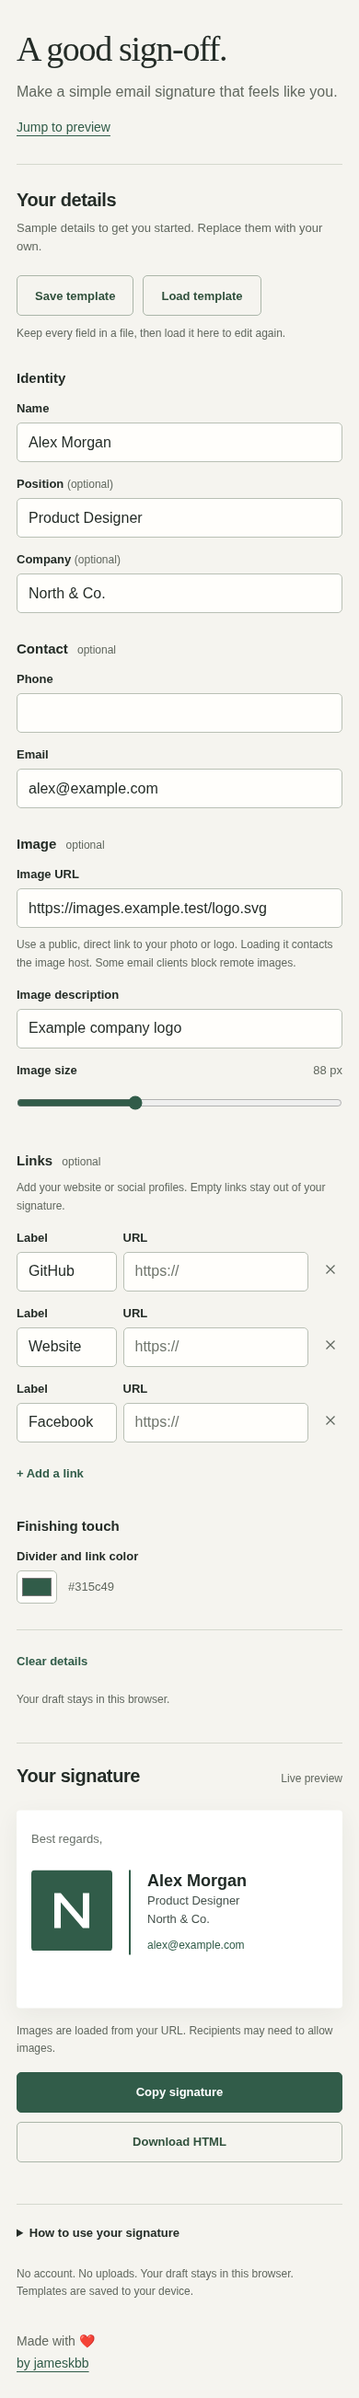
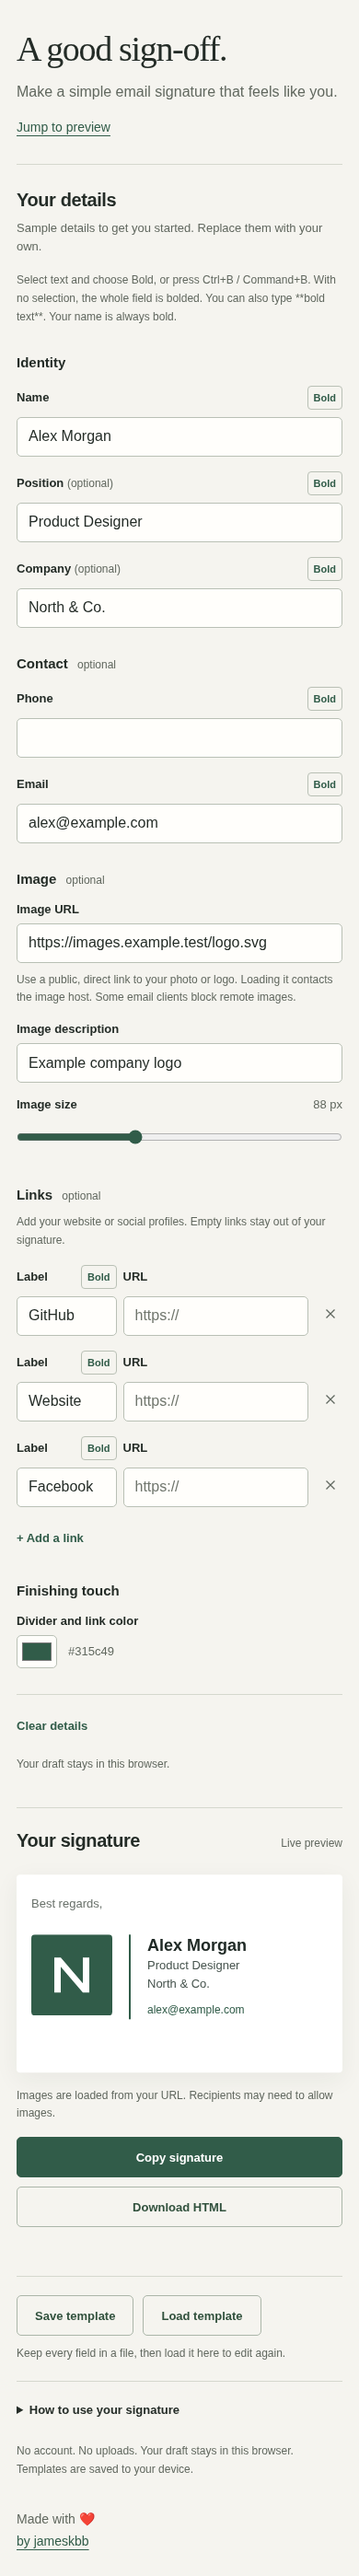
Add selected-text bold formatting and company template names
Preserve bold markup through templates and HTML export, keep link destinations plain, and group template controls beneath the preview exports.

diff --git a/signature.js b/signature.js
@@ -13,6 +13,21 @@
     });
   }
 
+  function unformat(value) {
+    return typeof value === 'string' ? value.replace(/\*\*([\s\S]+?)\*\*/g, '$1') : '';
+  }
+
+  function format(value) {
+    var input = typeof value === 'string' ? value : '';
+    var result = '', start = 0;
+    input.replace(/\*\*([\s\S]+?)\*\*/g, function (match, bold, offset) {
+      result += escape(input.slice(start, offset)) + '<strong style="font-weight:700;">' + escape(bold) + '</strong>';
+      start = offset + match.length;
+      return match;
+    });
+    return result + escape(input.slice(start));
+  }
+
   function normalizeUrl(value) {
     var input = text(value);
     if (!input || /[\u0000-\u0020\u007f\\]/.test(input)) return '';
@@ -53,7 +68,7 @@
       position: text(data.position),
       company: text(data.company),
       phone: text(data.phone),
-      email: validEmail(email) ? email : '',
+      email: validEmail(unformat(email)) ? email : '',
       imageUrl: normalizeUrl(data.imageUrl),
       imageAlt: text(data.imageAlt),
       imageSize: Number.isFinite(size) && size > 0 ? Math.round(Math.min(160, Math.max(48, size))) : 88,
@@ -65,21 +80,21 @@
   }
 
   function anchor(label, href, accent) {
-    return '<a href="' + escape(href) + '" style="color:' + accent + ';text-decoration:none;">' + escape(label) + '</a>';
+    return '<a href="' + escape(href) + '" style="color:' + accent + ';text-decoration:none;">' + format(label) + '</a>';
   }
 
   function render(data) {
     var signature = clean(data);
     var lines = [];
-    if (signature.name) lines.push('<div style="font-size:18px;line-height:24px;font-weight:700;color:#202a26;">' + escape(signature.name) + '</div>');
-    if (signature.position) lines.push('<div style="font-size:13px;line-height:20px;">' + escape(signature.position) + '</div>');
-    if (signature.company) lines.push('<div style="font-size:13px;line-height:20px;">' + escape(signature.company) + '</div>');
+    if (signature.name) lines.push('<div style="font-size:18px;line-height:24px;font-weight:700;color:#202a26;">' + format(signature.name) + '</div>');
+    if (signature.position) lines.push('<div style="font-size:13px;line-height:20px;">' + format(signature.position) + '</div>');
+    if (signature.company) lines.push('<div style="font-size:13px;line-height:20px;">' + format(signature.company) + '</div>');
     var contacts = [];
     if (signature.phone) {
-      var number = signature.phone.replace(/[\s().-]/g, '');
-      contacts.push(/^\+?\d+$/.test(number) ? anchor(signature.phone, 'tel:' + number, signature.accent) : escape(signature.phone));
+      var number = unformat(signature.phone).replace(/[\s().-]/g, '');
+      contacts.push(/^\+?\d+$/.test(number) ? anchor(signature.phone, 'tel:' + number, signature.accent) : format(signature.phone));
     }
-    if (signature.email) contacts.push(anchor(signature.email, 'mailto:' + encodeURIComponent(signature.email).replace('%40', '@'), signature.accent));
+    if (signature.email) contacts.push(anchor(signature.email, 'mailto:' + encodeURIComponent(unformat(signature.email)).replace('%40', '@'), signature.accent));
     signature.links.forEach(function (link) { contacts.push(anchor(link.label, link.url, signature.accent)); });
     if (contacts.length) lines.push('<div style="padding-top:' + (lines.length ? '8' : '0') + 'px;font-size:12px;line-height:20px;">' + contacts.join('<br>') + '</div>');
     if (!lines.length && !signature.imageUrl) return '';
@@ -89,10 +104,10 @@
 
   function plainText(data) {
     var signature = clean(data);
-    return [signature.name, signature.position, signature.company, signature.phone, signature.email].filter(Boolean).concat(signature.links.map(function (link) {
-      return link.label + ': ' + link.url;
+    return [signature.name, signature.position, signature.company, signature.phone, signature.email].filter(Boolean).map(unformat).concat(signature.links.map(function (link) {
+      return unformat(link.label) + ': ' + link.url;
     })).join('\n');
   }
 
-  globalThis.Signature = Object.freeze({ normalizeUrl: normalizeUrl, validEmail: validEmail, render: render, plainText: plainText });
+  globalThis.Signature = Object.freeze({ normalizeUrl: normalizeUrl, validEmail: validEmail, format: format, unformat: unformat, render: render, plainText: plainText });
 }());

diff --git a/app.js b/app.js
@@ -100,7 +100,7 @@
 
   function validate() {
     valid = true;
-    var email = state.email.trim();
+    var email = Signature.unformat(state.email).trim();
     setError($('email'), $('email-error'), email && !Signature.validEmail(email) ? 'Enter an email address such as alex@example.com, or leave this blank.' : '');
     setError($('imageUrl'), $('image-error'), state.imageUrl.trim() && !Signature.normalizeUrl(state.imageUrl) ? 'Enter a public http:// or https:// image URL, or leave this blank.' : '');
     Array.prototype.forEach.call($('links').children, function (row, index) {
@@ -160,6 +160,57 @@
     save();
   }
 
+  function addBoldControl(input, fieldName) {
+    var label = document.querySelector('label[for="' + input.id + '"]');
+    var heading = document.createElement('div');
+    heading.className = 'format-label';
+    label.before(heading);
+    heading.appendChild(label);
+    var button = document.createElement('button');
+    button.type = 'button';
+    button.className = 'bold-button';
+    button.textContent = 'Bold';
+    button.setAttribute('aria-label', 'Toggle bold for ' + fieldName);
+    button.setAttribute('aria-controls', input.id);
+    button.title = 'Bold selected text or the whole field (Ctrl+B or Command+B)';
+    heading.appendChild(button);
+    input.setAttribute('aria-describedby', ((input.getAttribute('aria-describedby') || '') + ' formatting-help').trim());
+    function toggleBold() {
+      var value = input.value;
+      var start = input.selectionStart;
+      var end = input.selectionEnd;
+      if (start === end) { start = 0; end = value.length; }
+      if (!value) {
+        $('formatting-status').textContent = 'Enter text in ' + fieldName + ' before making it bold.';
+        input.focus();
+        return;
+      }
+      var selection = value.slice(start, end);
+      var replacement;
+      if (start >= 2 && value.slice(start - 2, start) === '**' && value.slice(end, end + 2) === '**') {
+        start -= 2; end += 2;
+        replacement = selection;
+      } else if (selection.startsWith('**') && selection.endsWith('**') && selection.length > 4) {
+        replacement = selection.slice(2, -2);
+      } else {
+        replacement = '**' + selection + '**';
+      }
+      input.value = value.slice(0, start) + replacement + value.slice(end);
+      input.dispatchEvent(new Event('input', { bubbles: true }));
+      render();
+      input.focus();
+      input.setSelectionRange(start, start + replacement.length);
+      $('formatting-status').textContent = 'Formatting updated for ' + fieldName + '.';
+    }
+    button.addEventListener('mousedown', function (event) { event.preventDefault(); });
+    button.addEventListener('click', toggleBold);
+    input.addEventListener('keydown', function (event) {
+      if ((event.ctrlKey || event.metaKey) && !event.altKey && event.key.toLowerCase() === 'b') {
+        event.preventDefault(); toggleBold();
+      }
+    });
+  }
+
   function createLinkRow(link) {
     var id = ++linkCounter;
     var row = document.createElement('div');
@@ -183,6 +234,7 @@
       changed(); render();
     });
     $('links').appendChild(row);
+    addBoldControl(label, 'link label');
     return row;
   }
 
@@ -192,6 +244,8 @@
     state.links.forEach(createLinkRow);
     render();
   }
+
+  ['name', 'position', 'company', 'phone', 'email'].forEach(function (key) { addBoldControl($(key), key); });
 
   fields.forEach(function (key) {
     $(key).addEventListener('input', function () {

diff --git a/index.html b/index.html
@@ -19,7 +19,8 @@
   <main class="workspace">
     <form id="editor" novalidate>
       <div class="editor-intro"><h2>Your details</h2><p id="sample-note">Sample details to get you started. Replace them with your own.</p></div>
-      <div class="template-actions"><button type="button" id="save-template" class="secondary-button">Save template</button><button type="button" id="load-template" class="secondary-button">Load template</button><input type="file" id="template-file" accept=".json,application/json" hidden><p class="field-help">Keep every field in a file, then load it here to edit again.</p><p id="template-status" role="status" aria-live="polite" hidden></p></div>
+      <p class="field-help" id="formatting-help">Select text and choose Bold, or press Ctrl+B / Command+B. With no selection, the whole field is bolded. You can also type **bold text**. Your name is always bold.</p>
+      <p id="formatting-status" class="visually-hidden" role="status" aria-live="polite"></p>
       <fieldset><legend>Identity</legend>
         <label for="name">Name</label><input id="name" name="name" autocomplete="name" maxlength="160">
         <div class="field-pair"><div><label for="position">Position <span>(optional)</span></label><input id="position" name="position" autocomplete="organization-title" maxlength="160"></div><div><label for="company">Company <span>(optional)</span></label><input id="company" name="company" autocomplete="organization" maxlength="160"></div></div>
@@ -44,6 +45,7 @@
       <div class="export-actions"><button type="button" id="copy" class="primary-button">Copy signature</button><button type="button" id="download" class="secondary-button">Download HTML</button></div>
       <p id="action-status" class="action-status" role="status" aria-live="polite"></p>
       <div id="manual-copy" class="manual-copy" hidden><p>Automatic copying is unavailable. Select the signature below, then press Ctrl+C (Windows) or Command+C (Mac).</p><button type="button" id="select-signature" class="secondary-button">Select signature</button></div>
+      <div class="template-actions"><button type="button" id="save-template" class="secondary-button">Save template</button><button type="button" id="load-template" class="secondary-button">Load template</button><input type="file" id="template-file" accept=".json,application/json" hidden><p class="field-help">Keep every field in a file, then load it here to edit again.</p><p id="template-status" role="status" aria-live="polite" hidden></p></div>
       <details class="paste-help"><summary>How to use your signature</summary><ol><li>Copy your signature.</li><li>Open your email app's settings and find its signature editor.</li><li>Paste, save, and send yourself a test email.</li></ol><p>Email apps may adjust spacing, fonts, or images. The HTML download is useful for apps that accept an HTML file.</p></details>
       <p class="privacy-note">No account. No uploads. Your draft stays in this browser. Templates are saved to your device.</p>
     </aside>

diff --git a/tests/signature.test.js b/tests/signature.test.js
@@ -75,3 +75,21 @@ test('encodes valid mailbox punctuation so it cannot become mailto parameters', 
   assert.ok(html.includes('href="mailto:ada%3Fsubject%3Dhello@example.com"'));
   assert.ok(!html.includes('href="mailto:ada?'));
 });
+
+test('renders selected bold text safely and keeps markup out of link destinations and plain text', () => {
+  const data = {
+    name: '**Alex** Morgan', position: 'Lead **Designer**', company: '**EXAMPLE** | Digital Solutions',
+    phone: '**+1** 555-0100', email: '**alex**@example.com',
+    links: [{ label: 'My **Website**', url: 'https://example.com/**literal**' }]
+  };
+  const html = render(data);
+  assert.match(html, /<strong style="font-weight:700;">EXAMPLE<\/strong> \| Digital Solutions/);
+  assert.match(html, /href="mailto:alex@example.com"/);
+  assert.match(html, /href="tel:\+15550100"/);
+  assert.match(html, /href="https:\/\/example.com\/\*\*literal\*\*"/);
+  assert.match(html, /My <strong style="font-weight:700;">Website<\/strong>/);
+  assert.equal(plainText(data), 'Alex Morgan\nLead Designer\nEXAMPLE | Digital Solutions\n+1 555-0100\nalex@example.com\nMy Website: https://example.com/**literal**');
+  assert.equal(globalThis.Signature.format('**<img src=x onerror=alert(1)>**'), '<strong style="font-weight:700;">&lt;img src=x onerror=alert(1)&gt;</strong>');
+  assert.equal(globalThis.Signature.format('unmatched **text'), 'unmatched **text');
+  assert.equal(globalThis.Signature.unformat('A **bold** B **also**'), 'A bold B also');
+});

diff --git a/template.js b/template.js
@@ -40,11 +40,16 @@
   }
   function filename(signature) {
     var email = signature && typeof signature.email === 'string' ? signature.email : '';
-    var handle = email.trim().split('@')[0].toLowerCase().normalize('NFKD')
+    var company = signature && typeof signature.company === 'string' ? signature.company : '';
+    var handle = email.replace(/\*\*([\s\S]+?)\*\*/g, '$1').trim().split('@')[0].toLowerCase().normalize('NFKD')
       .replace(/[\u0300-\u036f]/g, '').replace(/[^a-z0-9._+-]/g, '-')
       .replace(/-+/g, '-').replace(/^[._+-]+|[._+-]+$/g, '').slice(0, 100)
       .replace(/[._+-]+$/g, '');
     if (!handle) handle = 'email-signature-template';
+    var companySlug = company.replace(/\*\*([\s\S]+?)\*\*/g, '$1').toLowerCase().normalize('NFKD')
+      .replace(/[\u0300-\u036f]/g, '').replace(/[^a-z0-9]+/g, '-')
+      .replace(/^-+|-+$/g, '').slice(0, 80).replace(/-+$/g, '');
+    if (companySlug) handle += '-' + companySlug;
     // Windows reserves these names even when a file extension is present.
     if (/^(con|prn|aux|nul|com[0-9]|lpt[0-9])(?:\.|$)/i.test(handle)) handle = 'template-' + handle;
     return handle + '.json';

diff --git a/styles.css b/styles.css
@@ -572,7 +572,9 @@ footer {
   display:flex;
   flex-wrap:wrap;
   gap:10px;
-  margin-top:20px;
+  margin:20px 0;
+  padding-top:20px;
+  border-top:1px solid var(--line);
 }
 
 .template-actions p {
@@ -588,4 +590,59 @@ footer {
 
 #template-status.warning {
   color:var(--error);
+}
+
+#formatting-help {
+  margin-top:16px;
+}
+
+.format-label {
+  display:flex;
+  align-items:center;
+  justify-content:space-between;
+  gap:8px;
+  margin-bottom:8px;
+  min-height:26px;
+}
+
+.format-label label {
+  margin-bottom:0;
+}
+
+.bold-button {
+  flex-shrink:0;
+  border:1px solid #b9c0b5;
+  border-radius:4px;
+  background:transparent;
+  color:var(--green);
+  min-height:26px;
+  padding:3px 6px;
+  font-size:11px;
+  font-weight:700;
+}
+
+.bold-button:hover {
+  background:#e8ece3;
+}
+
+.link-row > div > label {
+  min-height:26px;
+  display:flex;
+  align-items:center;
+}
+
+.link-row .remove-link {
+  margin-top:34px;
+}
+
+.visually-hidden {
+  position:absolute;
+  width:1px;
+  height:1px;
+  padding:0;
+  margin:-1px;
+  overflow:hidden;
+  clip-path:inset(50%);
+  white-space:nowrap;
+  border:0;
 }

diff --git a/tests/template.test.js b/tests/template.test.js
@@ -17,7 +17,7 @@ test('template filenames use a safe email handle without changing saved values',
     ['CON@example.com', 'template-con.json']
   ];
   for (const [email, expected] of examples) {
-    const data = { ...signature, email };
+    const data = { ...signature, email, company: '' };
     assert.equal(Template.filename(data), expected);
     assert.equal(Template.parse(Template.serialize(data)).email, email);
   }
@@ -45,4 +45,11 @@ test('omits view-only state and returns independent editable values', () => {
   assert.deepEqual(parsed, signature);
   parsed.links[0].label = 'changed';
   assert.equal(signature.links[0].label, ' Second ');
+});
+
+test('template filenames include the company without bold markers or unsafe separators', () => {
+  const data = { ...signature, email: '**alex**@example.com', company: '**EXAMPLE** | Digital Solutions' };
+  assert.equal(Template.filename(data), 'alex-example-digital-solutions.json');
+  assert.deepEqual(Template.parse(Template.serialize(data)), data);
+  assert.equal(Template.filename({ email: 'alex@example.com', company: ' /:*? ' }), 'alex.json');
 });

diff --git a/README.md b/README.md
@@ -24,9 +24,15 @@ python3 -m http.server 8000 --bind 127.0.0.1
 
 Open http://localhost:8000. Replace the example details, paste a public direct image URL, and add any links you want. Blank optional fields disappear. Use **Copy signature**, then paste into your email client's signature editor. You can also download the HTML.
 
+## Bold text
+
+Select any part of your name, position, company, phone, email, or link label, then choose its **Bold** button or press **Ctrl+B** (Windows) or **Command+B** (Mac). With no selection, the whole field is bolded. Repeat to remove bold. For example, `**North** | Digital Solutions` makes only North bold. Your name already appears bold by default.
+
+You can also type paired `**` markers directly. The preview and HTML render the bold text; email and phone link destinations and plain-text clipboard content omit the markers. URLs and image descriptions remain literal. Templates retain the markers exactly so formatting survives saving and loading.
+
 ## Save and load templates
 
-Use **Save template** to download a JSON file named after your email handle: `alex@example.com` saves as `alex.json`. Filenames are lowercase and cleaned for filesystem compatibility; a blank email uses `email-signature-template.json`. Use **Load template** to restore a file in this editor on any device. The template retains every editable value exactly: identity, contact details, image URL and description, image size, color, and all links in their original order, including blank rows and whitespace. Unfinished or invalid email addresses and URLs can be saved too; fix highlighted fields before copying or downloading HTML.
+Use **Save template** to download a JSON file named after your email handle and company: `alex@example.com` at `North & Co.` saves as `alex-north-co.json`. Filenames are lowercase and cleaned for filesystem compatibility; a blank company keeps just the email handle, and a blank email uses `email-signature-template` as the base name. Bold formatting is left out of filenames. Use **Load template** to restore a file in this editor on any device. The template retains every editable value exactly: identity, contact details, image URL and description, image size, color, and all links in their original order, including blank rows and whitespace. Unfinished or invalid email addresses and URLs can be saved too; fix highlighted fields before copying or downloading HTML.
 
 Loading replaces your draft and updates the preview and browser storage immediately. **Undo load** restores the previous draft. Invalid, unsupported, or oversized files leave the draft unchanged. Files are read locally, with a 100 KiB limit. Templates contain your entered details in plain text, so keep them wherever you normally store personal files. HTML downloads are rendered signatures, not editable templates.
 

diff --git a/DESIGN.md b/DESIGN.md
@@ -113,11 +113,11 @@ Controls have gently rounded corners. The email canvas uses a slightly tighter r
 
 ### Buttons
 
-The primary filled green action copies the signature. Download is a quiet bordered secondary action. Save template and Load template use the same secondary style above the form, with local file status directly underneath. Text actions add links, clear details, and undo a clear or template load. Primary and secondary actions are at least 44px tall. Focus is a three-pixel green outline with four-pixel offset. Disabled actions have reduced opacity and a not-allowed cursor.
+The primary filled green action copies the signature. Download is a quiet bordered secondary action. Save template and Load template use the same secondary style below the preview export actions, separated by a quiet rule, with local file status directly underneath. This keeps reusable draft files near the finished signature outputs while preserving Copy signature as the primary action. Text actions add links, clear details, and undo a clear or template load. Primary and secondary actions are at least 44px tall. Focus is a three-pixel green outline with four-pixel offset. Disabled actions have reduced opacity and a not-allowed cursor.
 
 ### Inputs / Fields
 
-Every input has a persistent visible label. Related fields share a row when space allows. Invalid inputs use an error border and adjacent recovery text. Native range and color inputs retain familiar browser behavior with the green accent.
+Every input has a persistent visible label. A compact Bold button beside each displayed-text label formats selected text or the whole field. Ctrl+B and Command+B provide the same toggle. Paired ** markers remain visible in the field and render as bold in the preview. Related fields share a row when space allows. Invalid inputs use an error border and adjacent recovery text. Native range and color inputs retain familiar browser behavior with the green accent.
 
 ### Email paper
 

diff --git a/PRODUCT.md b/PRODUCT.md
@@ -24,7 +24,7 @@ Run locally or on GitHub Pages. Copy the rendered signature into an email client
 
 ## Capabilities and Constraints
 
-Live preview, optional contact fields and arbitrary labeled links, hosted image URL, local draft persistence, lossless JSON template save/load with undo, and email-compatible table markup with inline styles. No account, backend, telemetry, or build toolchain. Email clients may modify pasted formatting or block remote images.
+Live preview, whole-field and partial-text bold formatting, optional contact fields and arbitrary labeled links, hosted image URL, local draft persistence, lossless JSON template save/load with undo, and email-compatible table markup with inline styles. No account, backend, telemetry, or build toolchain. Email clients may modify pasted formatting or block remote images.
 
 ## Product Principles
 
